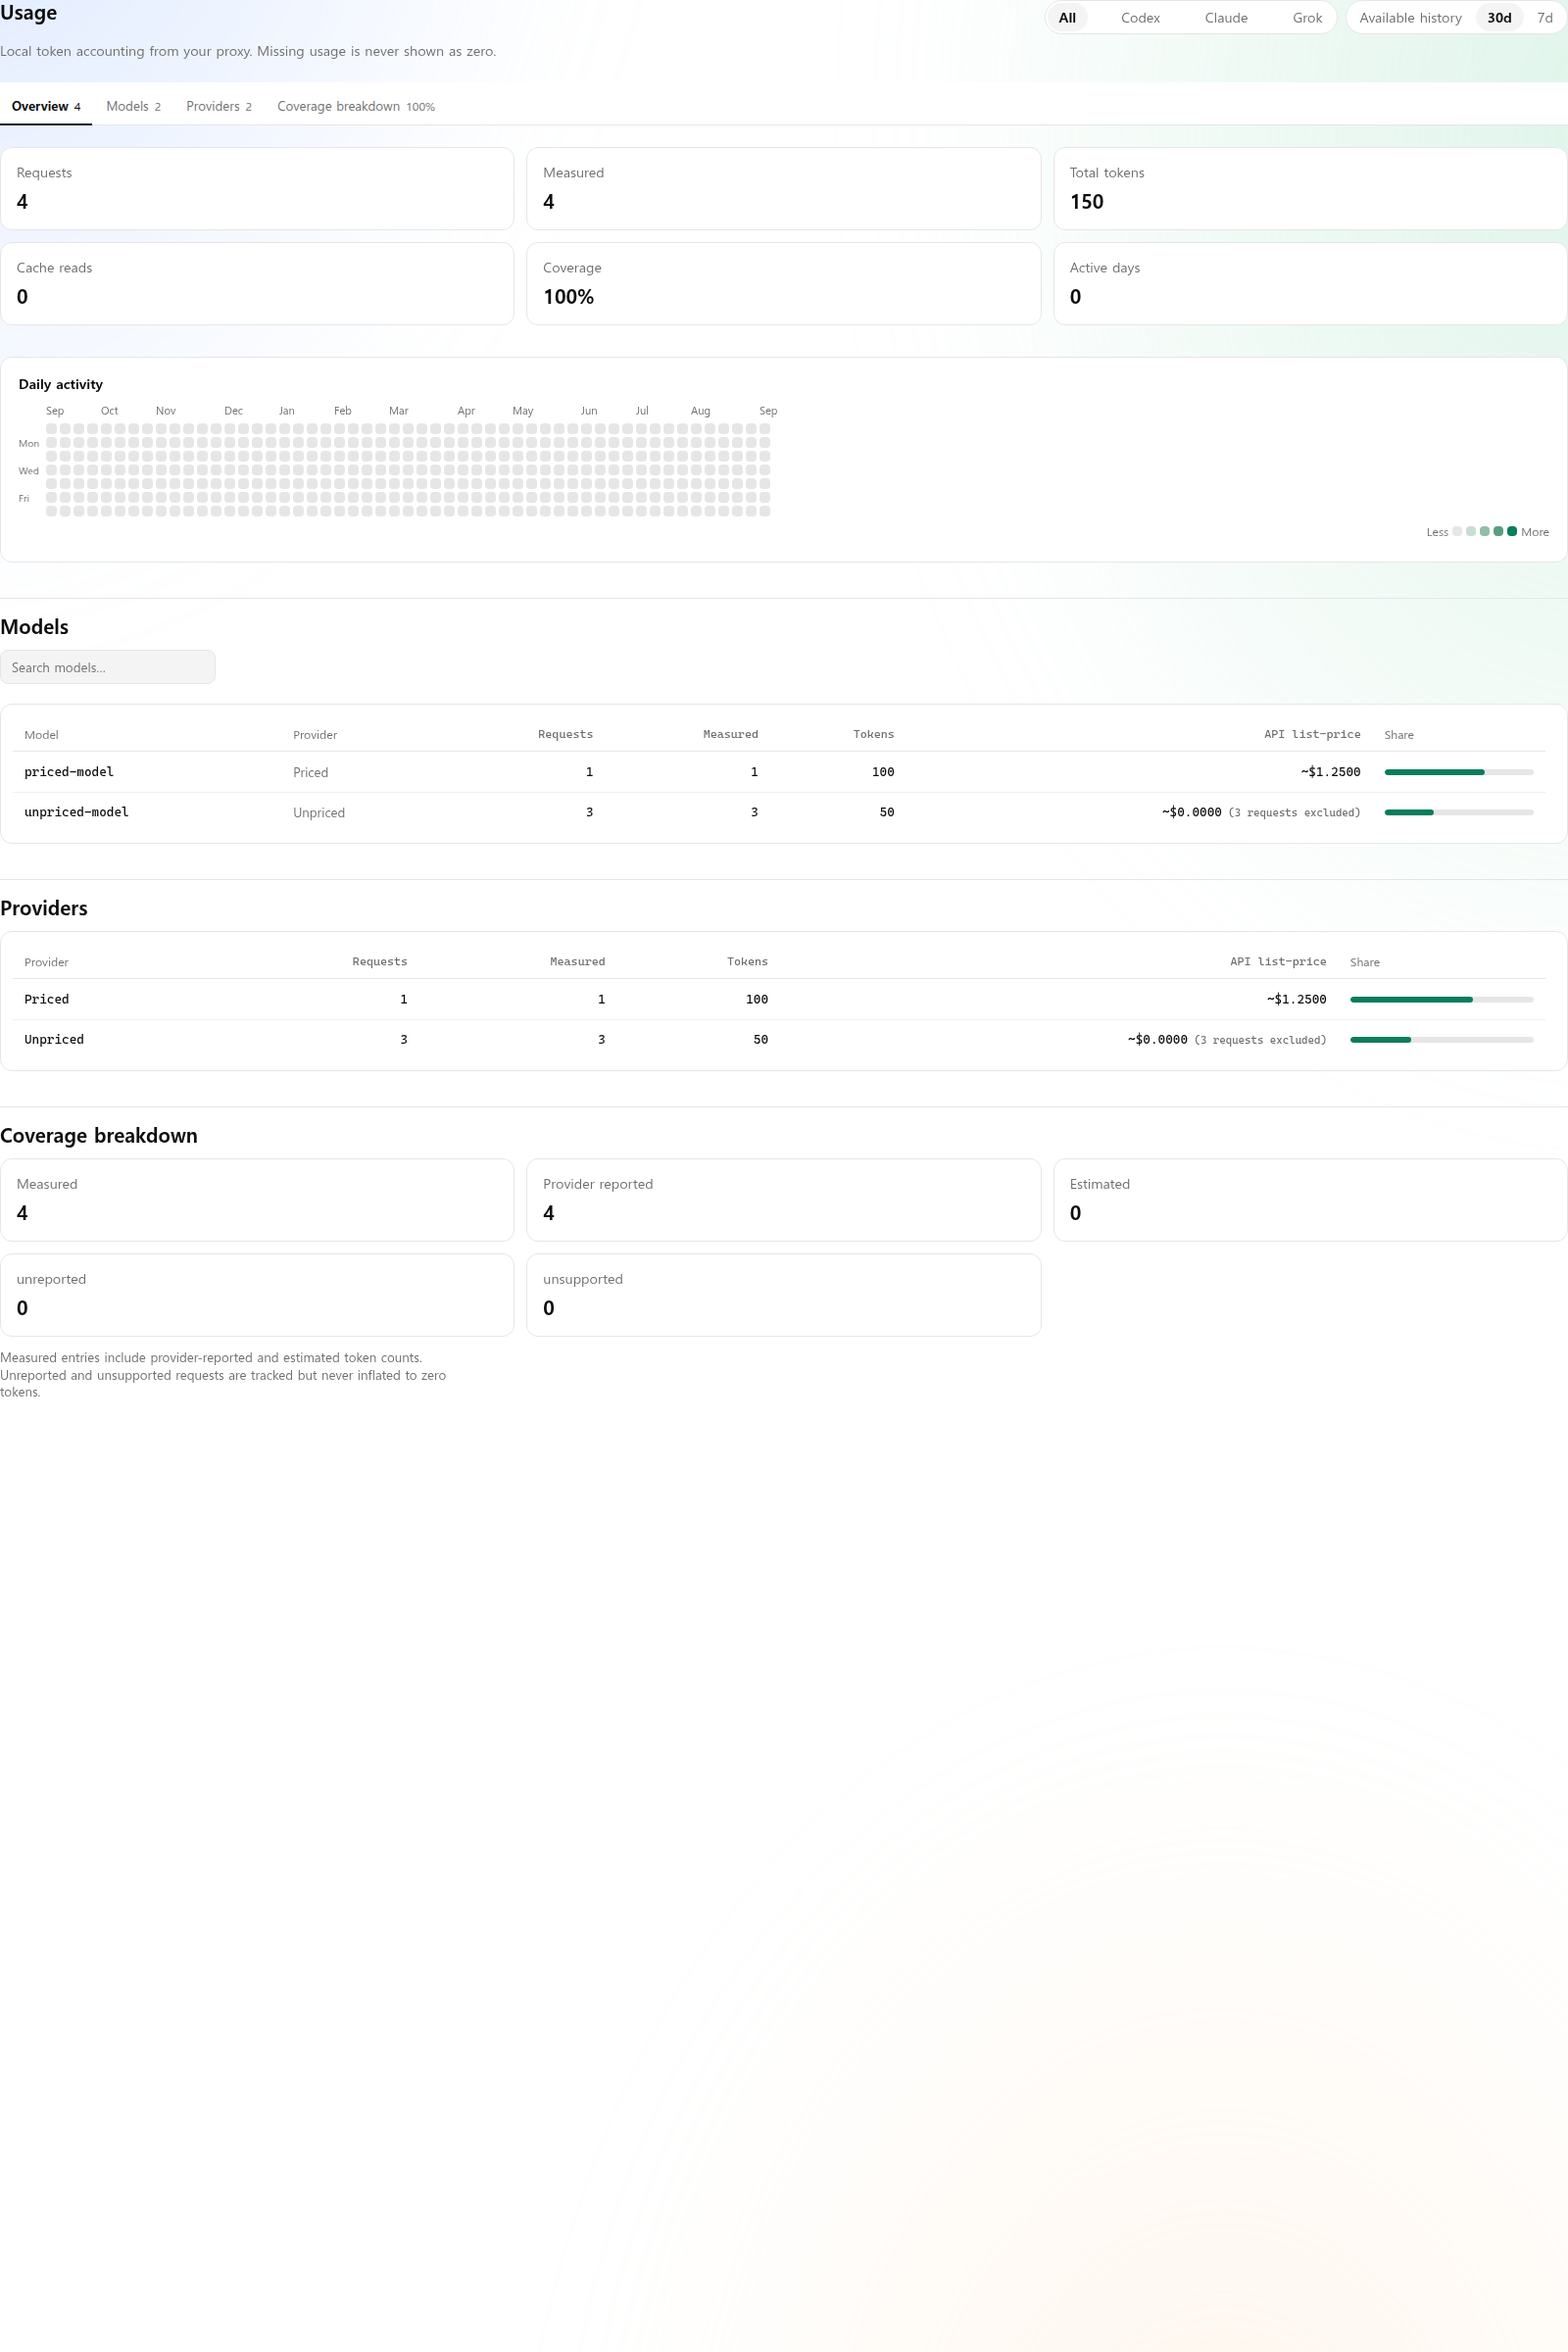
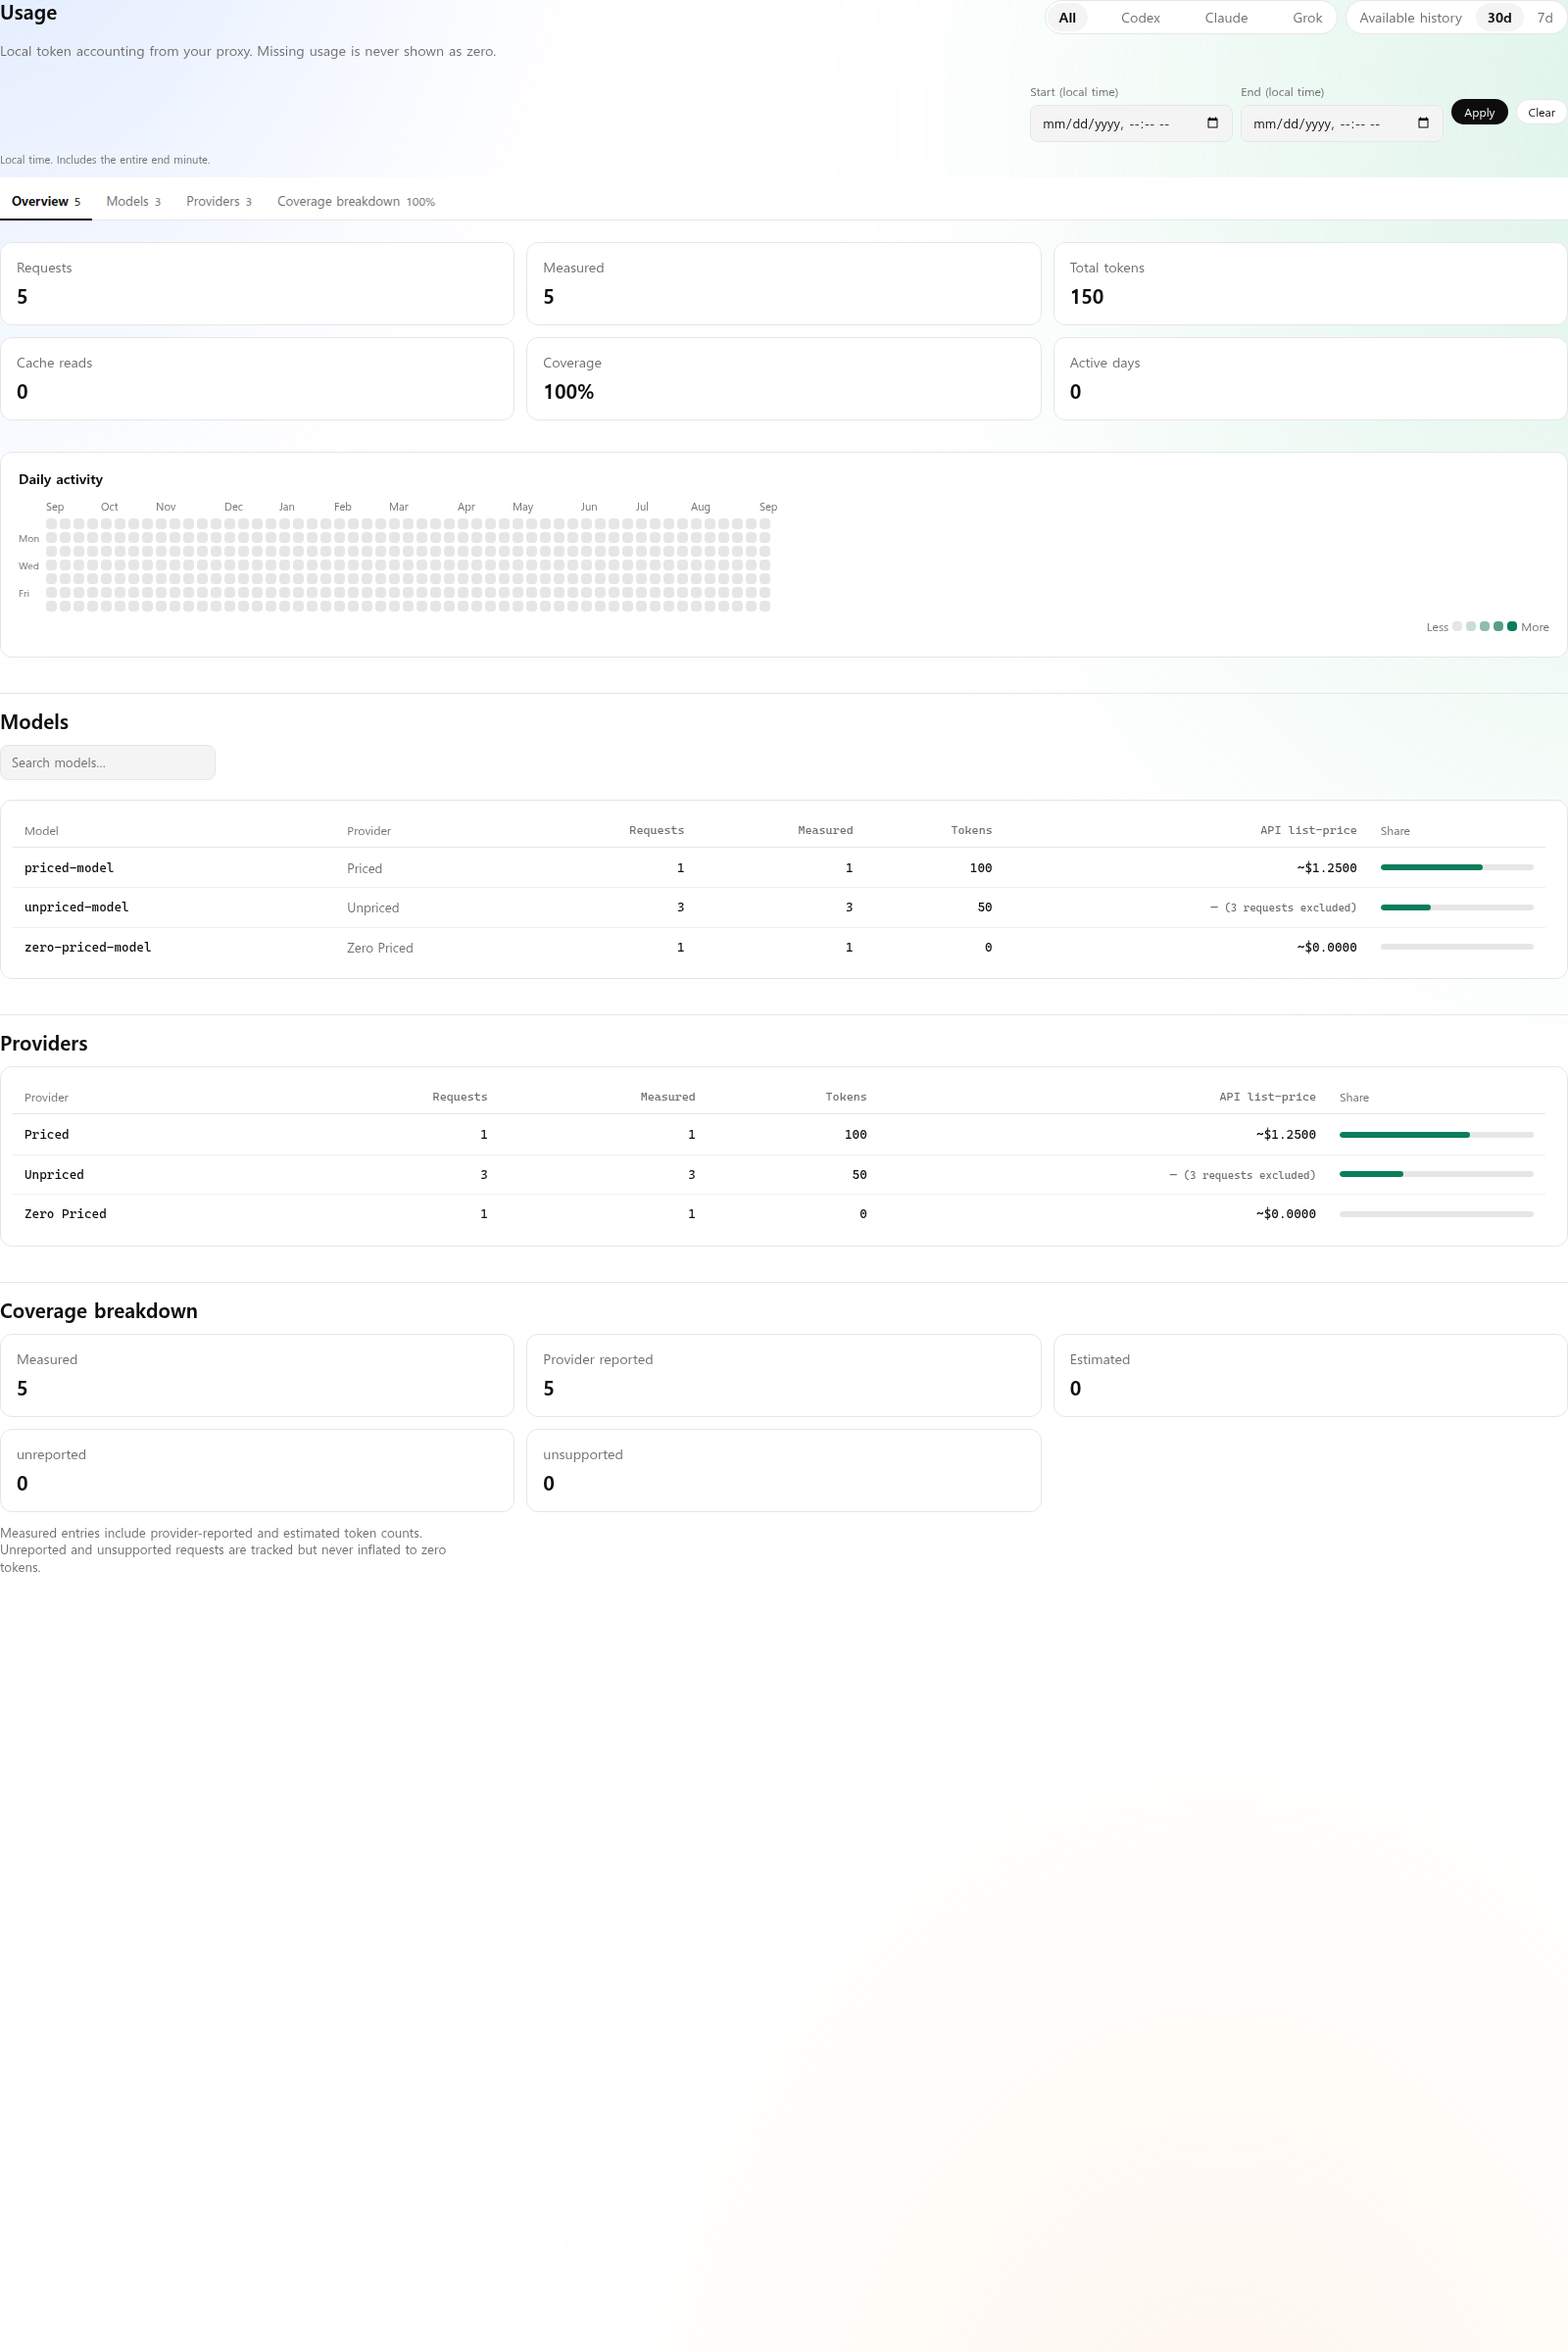
fix(usage): distinguish unpriced estimates

diff --git a/gui/tests/usage-layout.test.ts b/gui/tests/usage-layout.test.ts
@@ -3,6 +3,8 @@ import { Window } from "happy-dom";
 import { act, createElement } from "react";
 import { clearClientResourceStoresForTests } from "../src/client-resource";
 import { LanguageProvider } from "../src/i18n/provider";
+import { interpolate } from "../src/i18n/shared";
+import { ru } from "../src/i18n/ru";
 import Usage from "../src/pages/Usage";
 
 test("Usage renders every section in one scrollable column with a sticky strip", async () => {
@@ -89,7 +91,7 @@ test("usage workspace i18n keys exist in every locale", async () => {
   }
 });
 
-test("Usage breakdown tables show priced totals and excluded requests without calling them free", async () => {
+test("Usage breakdown tables distinguish priced zero totals from excluded requests", async () => {
   const globalKeys = ["document", "window", "navigator", "localStorage", "IS_REACT_ACT_ENVIRONMENT", "ResizeObserver"] as const;
   const previous = Object.fromEntries(globalKeys.map(key => [key, Reflect.get(globalThis, key)]));
   const originalFetch = globalThis.fetch;
@@ -116,9 +118,9 @@ test("Usage breakdown tables show priced totals and excluded requests without ca
     since: null,
     generatedAt: Date.now(),
     summary: {
-      requests: 4,
-      measuredRequests: 4,
-      reportedRequests: 4,
+      requests: 5,
+      measuredRequests: 5,
+      reportedRequests: 5,
       unreportedRequests: 0,
       unsupportedRequests: 0,
       estimatedRequests: 0,
@@ -132,10 +134,12 @@ test("Usage breakdown tables show priced totals and excluded requests without ca
     days: [],
     models: [
       { provider: "priced", model: "priced-model", requests: 1, measuredRequests: 1, reportedRequests: 1, estimatedRequests: 0, totalTokens: 100, inputTokens: 50, outputTokens: 50, estimatedCostUsd: 1.25, pricedRequests: 1, unpricedRequests: 0, shareRatio: 2 / 3 },
+      { provider: "zero-priced", model: "zero-priced-model", requests: 1, measuredRequests: 1, reportedRequests: 1, estimatedRequests: 0, totalTokens: 0, inputTokens: 0, outputTokens: 0, estimatedCostUsd: 0, pricedRequests: 1, unpricedRequests: 0, shareRatio: 0 },
       { provider: "unpriced", model: "unpriced-model", requests: 3, measuredRequests: 3, reportedRequests: 3, estimatedRequests: 0, totalTokens: 50, inputTokens: 50, outputTokens: 0, pricedRequests: 0, unpricedRequests: 3, shareRatio: 1 / 3 },
     ],
     providers: [
       { provider: "priced", requests: 1, measuredRequests: 1, reportedRequests: 1, estimatedRequests: 0, totalTokens: 100, estimatedCostUsd: 1.25, pricedRequests: 1, unpricedRequests: 0, shareRatio: 2 / 3 },
+      { provider: "zero-priced", requests: 1, measuredRequests: 1, reportedRequests: 1, estimatedRequests: 0, totalTokens: 0, estimatedCostUsd: 0, pricedRequests: 1, unpricedRequests: 0, shareRatio: 0 },
       { provider: "unpriced", requests: 3, measuredRequests: 3, reportedRequests: 3, estimatedRequests: 0, totalTokens: 50, pricedRequests: 0, unpricedRequests: 3, shareRatio: 1 / 3 },
     ],
     historyTruncated: false,
@@ -153,7 +157,7 @@ test("Usage breakdown tables show priced totals and excluded requests without ca
       root.render(createElement(LanguageProvider, null, createElement(Usage, { apiBase: "http://usage-list-price-test" })));
     });
     const deadline = Date.now() + 1_000;
-    while (!(container.textContent ?? "").includes("(3 requests excluded)")) {
+    while (!(container.textContent ?? "").includes("— (3 requests excluded)")) {
       if (Date.now() >= deadline) throw new Error("Usage list-price cells did not render");
       await act(async () => {
         await new Promise<void>(resolve => testWindow.setTimeout(resolve, 10));
@@ -161,7 +165,8 @@ test("Usage breakdown tables show priced totals and excluded requests without ca
     }
 
     expect(container.textContent).toContain("~$1.2500");
-    expect(container.textContent).toContain("~$0.0000 (3 requests excluded)");
+    expect(container.textContent).toContain("~$0.0000");
+    expect(container.textContent).toContain("— (3 requests excluded)");
     expect([...container.querySelectorAll("th")].filter(cell => cell.textContent === "API list-price")).toHaveLength(2);
   } finally {
     await act(async () => { root.unmount(); });
@@ -172,6 +177,12 @@ test("Usage breakdown tables show priced totals and excluded requests without ca
     for (const key of globalKeys) {
       Object.defineProperty(globalThis, key, { configurable: true, value: previous[key] });
     }
+  }
+});
+
+test("Russian excluded-request caption stays grammatical for common counts", () => {
+  for (const count of [1, 2, 5, 21]) {
+    expect(interpolate(ru["usage.cost.excluded"], { count })).toBe(`(${count} исключено)`);
   }
 });
 

diff --git a/gui/src/i18n/ru.ts b/gui/src/i18n/ru.ts
@@ -813,7 +813,7 @@ export const ru: Record<TKey, string> = {
   "usage.cost.total": "Эквивалент стоимости по прайс-листу API (за этот период)",
   "usage.cost.disclaimer": "Не является счётом. Расходы могут покрываться подпиской или кредитами провайдера.",
   "usage.cost.unpricedNote": "Исключено {count} запросов (нет цены или данных использования)",
-  "usage.cost.excluded": "({count} запросов исключено)",
+  "usage.cost.excluded": "({count} исключено)",
   "logs.detail.section.basic": "Основная информация",
   "logs.detail.route.section": "Решение о маршруте",
   "logs.detail.route.kind": "Тип маршрута",

diff --git a/gui/src/pages/Usage.tsx b/gui/src/pages/Usage.tsx
@@ -132,6 +132,14 @@ function UsageListPrice({ row, locale, t }: { row: UsageCostRow; locale: Locale;
   if (!hasPriceData) return <span className="muted">—</span>;
 
   const excludedRequests = row.unpricedRequests ?? 0;
+  if (row.estimatedCostUsd === undefined && excludedRequests > 0) {
+    return (
+      <>
+        <span className="muted">—</span>
+        <span className="muted text-caption"> {t("usage.cost.excluded", { count: excludedRequests })}</span>
+      </>
+    );
+  }
   return (
     <>
       <span className="mono">{formatUsdEstimate(row.estimatedCostUsd ?? 0, locale)}</span>

diff --git a/docs-site/src/content/docs/guides/web-dashboard.md b/docs-site/src/content/docs/guides/web-dashboard.md
@@ -146,6 +146,8 @@ upgrade and restart that proxy before retrying. Resetting a manual model price a
 model, preserving other rates saved independently.
 The **Usage** Models and Providers tables show the estimated priced portion for each row; any
 requests without a matching price or usable usage are counted as excluded beside that amount.
+A row with only excluded requests shows an em dash rather than a zero-dollar estimate; a displayed
+zero-dollar value is therefore a confirmed priced estimate.
 These are not billing receipts or evidence of an actual charge; subscription usage or provider credits
 may apply instead.
 
